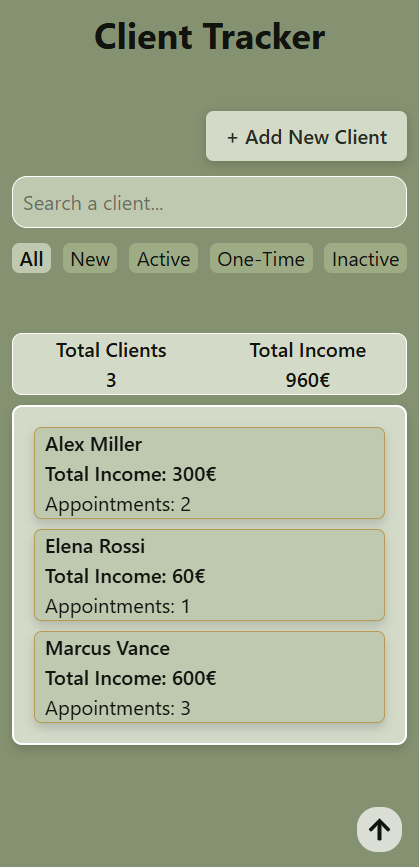
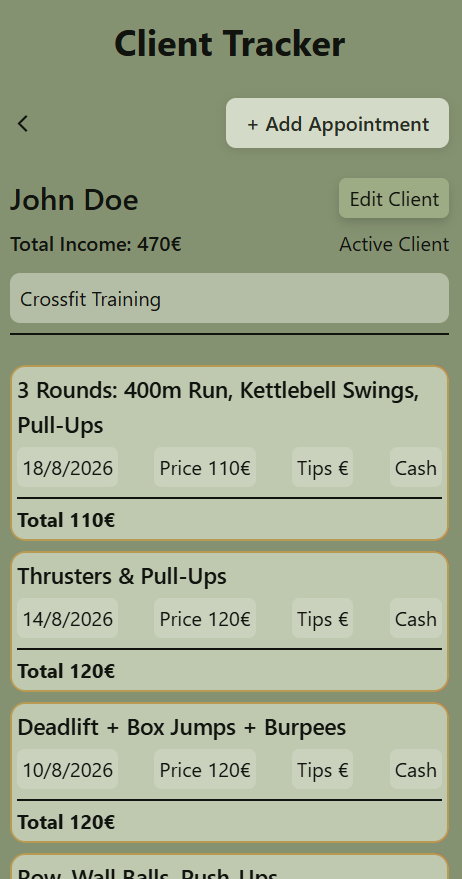
client tracker project photos added

diff --git a/src/components/Cards/ProjectsCard.jsx b/src/components/Cards/ProjectsCard.jsx
@@ -2,6 +2,7 @@ import nailsMobile from "../../assets/tales-of-nails-mobile.png";
 import nailsDesktop from "../../assets/tales-of-nails-desktop.png";
 import clientTracker1 from "../../assets/client-tracker-1.png";
 import clientTracker2 from "../../assets/client-tracker-2.png";
+import clientTracker3 from "../../assets/client-tracker-3.png";
 import { FaReact, FaGithub } from "react-icons/fa";
 import { RiTailwindCssFill } from "react-icons/ri";
 
@@ -28,8 +29,9 @@ function ProjectsCard() {
       description:
         "A client management app for service businesses. It stores data locally in the browser to track appointments and revenue, providing a clean dashboard for daily organization.",
       images: [
+          { src: clientTracker2, alt: "client tracker project", width: "w-1/3" },
         { src: clientTracker1, alt: "client tracker project", width: "w-1/3" },
-        { src: clientTracker2, alt: "client tracker project", width: "w-1/3" },
+        { src: clientTracker3, alt: "client tracker project", width: "w-1/3" },
       ],
       liveUrl: "https://clienttrackerapp.netlify.app/",
       techStack: [
@@ -46,7 +48,7 @@ function ProjectsCard() {
         ({ title, description, images, liveUrl, techStack, githubUrl }) => (
           <div
             key={title}
-            className="border-gray-border bg-surface flex flex-col gap-4 rounded-xl border p-6"
+            className="border-gray-border bg-surface flex flex-col gap-4 rounded-xl border p-3"
           >
             <div className="flex flex-col justify-between md:flex-row md:items-center">
               <h3 className="text-title text-lg font-semibold">{title}</h3>
